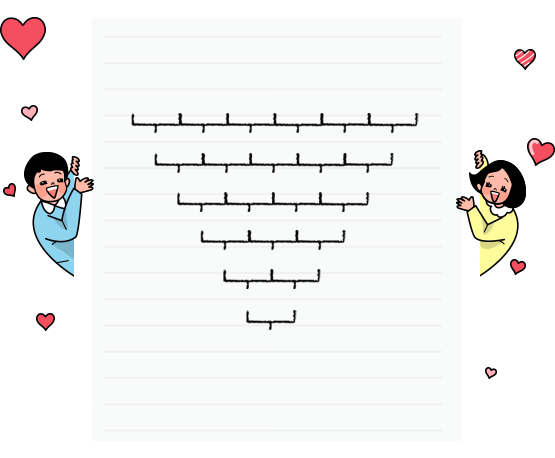
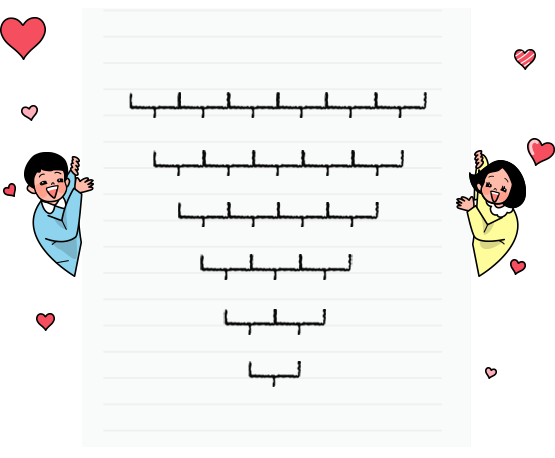
size

diff --git a/main.js b/main.js
@@ -85,22 +85,35 @@ function viewCheck(length) {
             break;
         case 7:
             paddingSize(
-                '6.5%',
+                '3.5%',
                 '0 1.5%',
-                '1rem',
+                '1.4rem',
                 '0 1.05rem',
-                '5%',
-                '0 1.8%',
+                '1%',
+                '0 1%',
                 '0.5rem',
-                '0 3%',
-                '5%',
-                '0 1.8%',
+                '0 2.2%',
+                '1%',
+                '0 1%',
                 '0.2rem',
-                '0 3.3%'
+                '0 2.5%'
             );
             break;
         case 8:
-            console.log('8');
+            paddingSize(
+                '3.5%',
+                '0 1.5%',
+                '0.9rem',
+                '0 1.05rem',
+                '1%',
+                '0 0.8%',
+                '0.2rem',
+                '0 1.8%',
+                '0.5%',
+                '0 0.6%',
+                '0',
+                '0 2%'
+            );
             break;
         default:
             console.log('6');

diff --git a/style-.css b/style-.css
@@ -238,7 +238,7 @@ justify-content: center;
     .bg-frame{
         top: 0;
         margin: 0 auto;
-        width: 90%;
+        width: 100%;
         height: 280px;
     }
     
@@ -268,6 +268,10 @@ justify-content: center;
     .btn-style{
         margin: 10px 0;
     }
+    
+    .result-number{
+        font-size: 2rem;
+    }
 }
 
 
@@ -278,7 +282,7 @@ justify-content: center;
     .bg-frame{
         top: 0;
         margin: 0 auto;
-        width: 90%;
+        width: 100%;
         height: 250px;
     }
     
@@ -307,5 +311,9 @@ justify-content: center;
     
     .btn-style{
         margin: 10px 0;
+    }
+    
+    .result-number{
+        font-size: 2rem;
     }
 }
